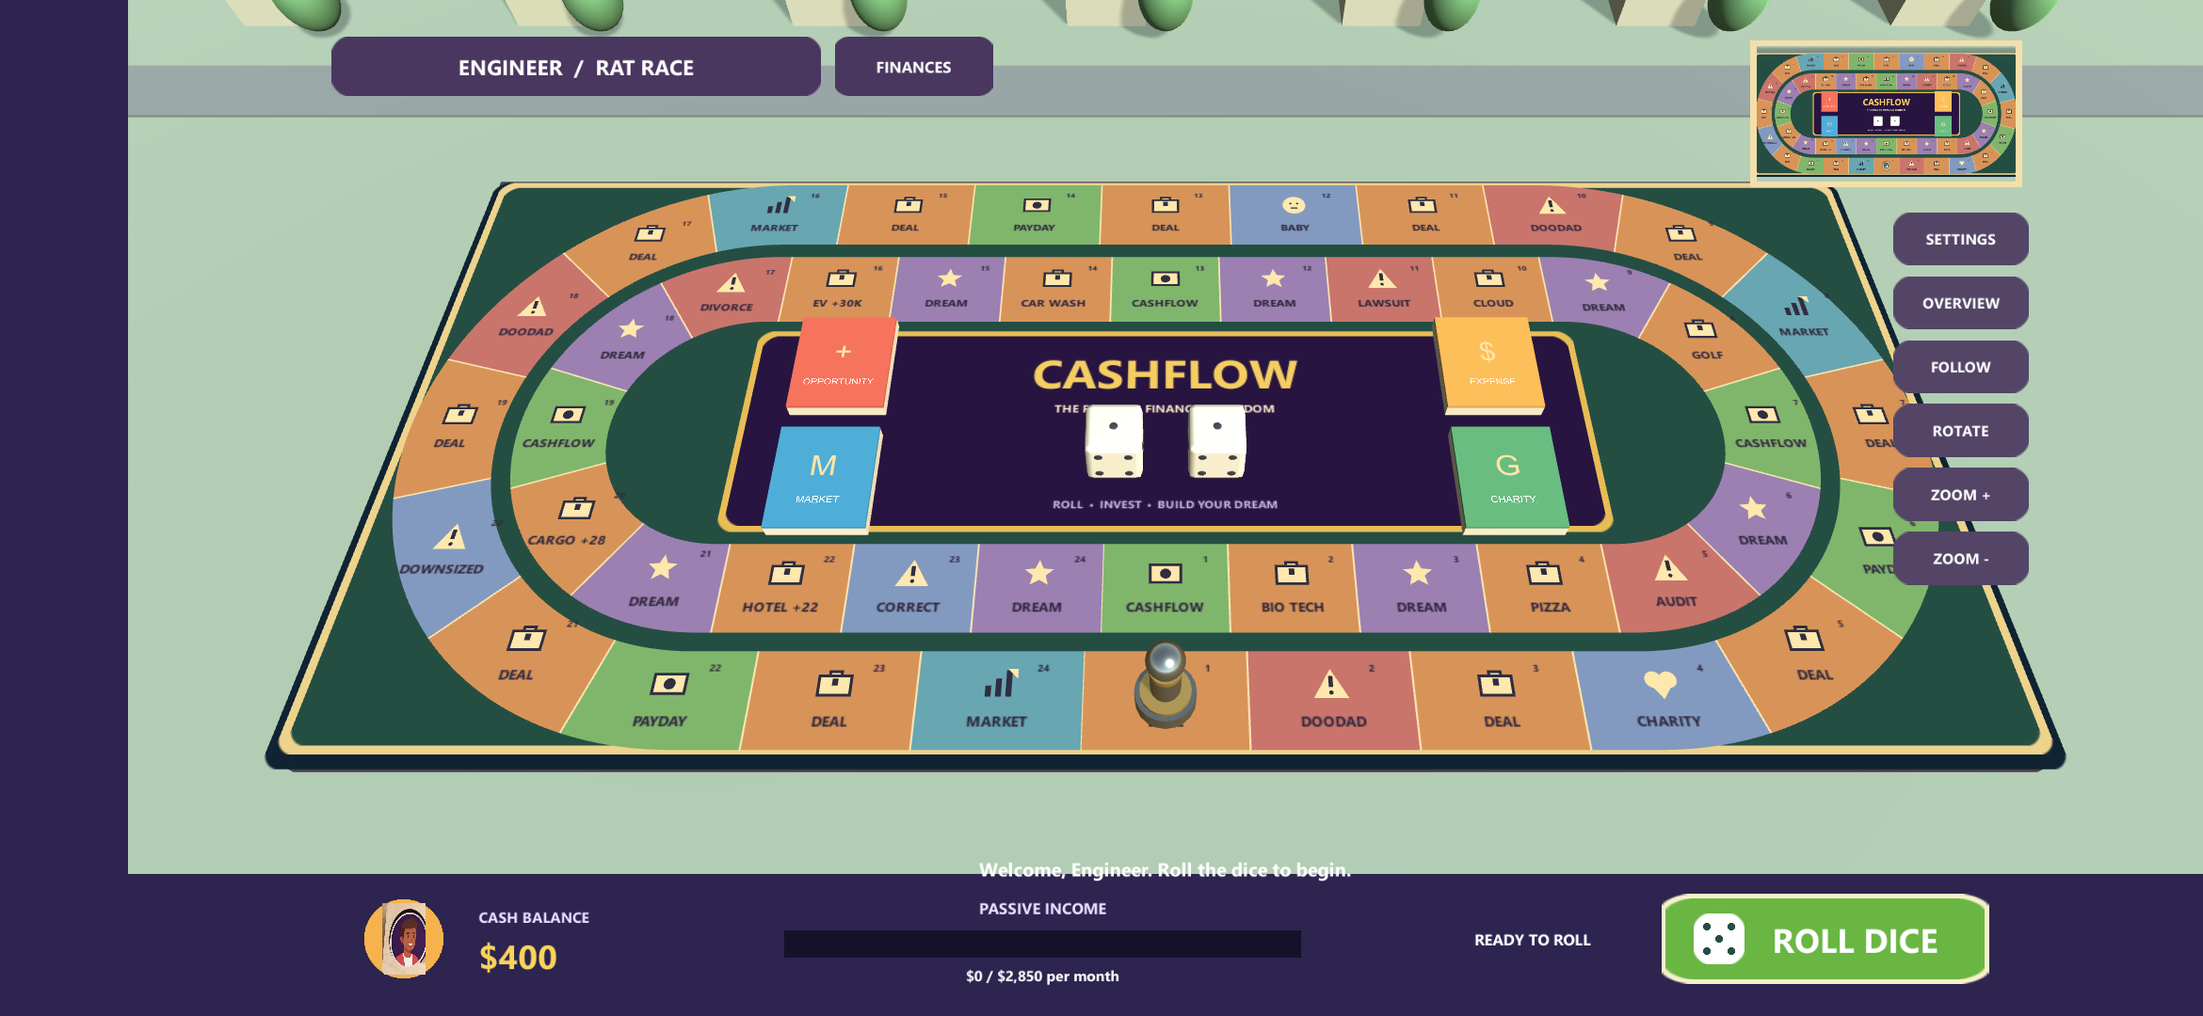
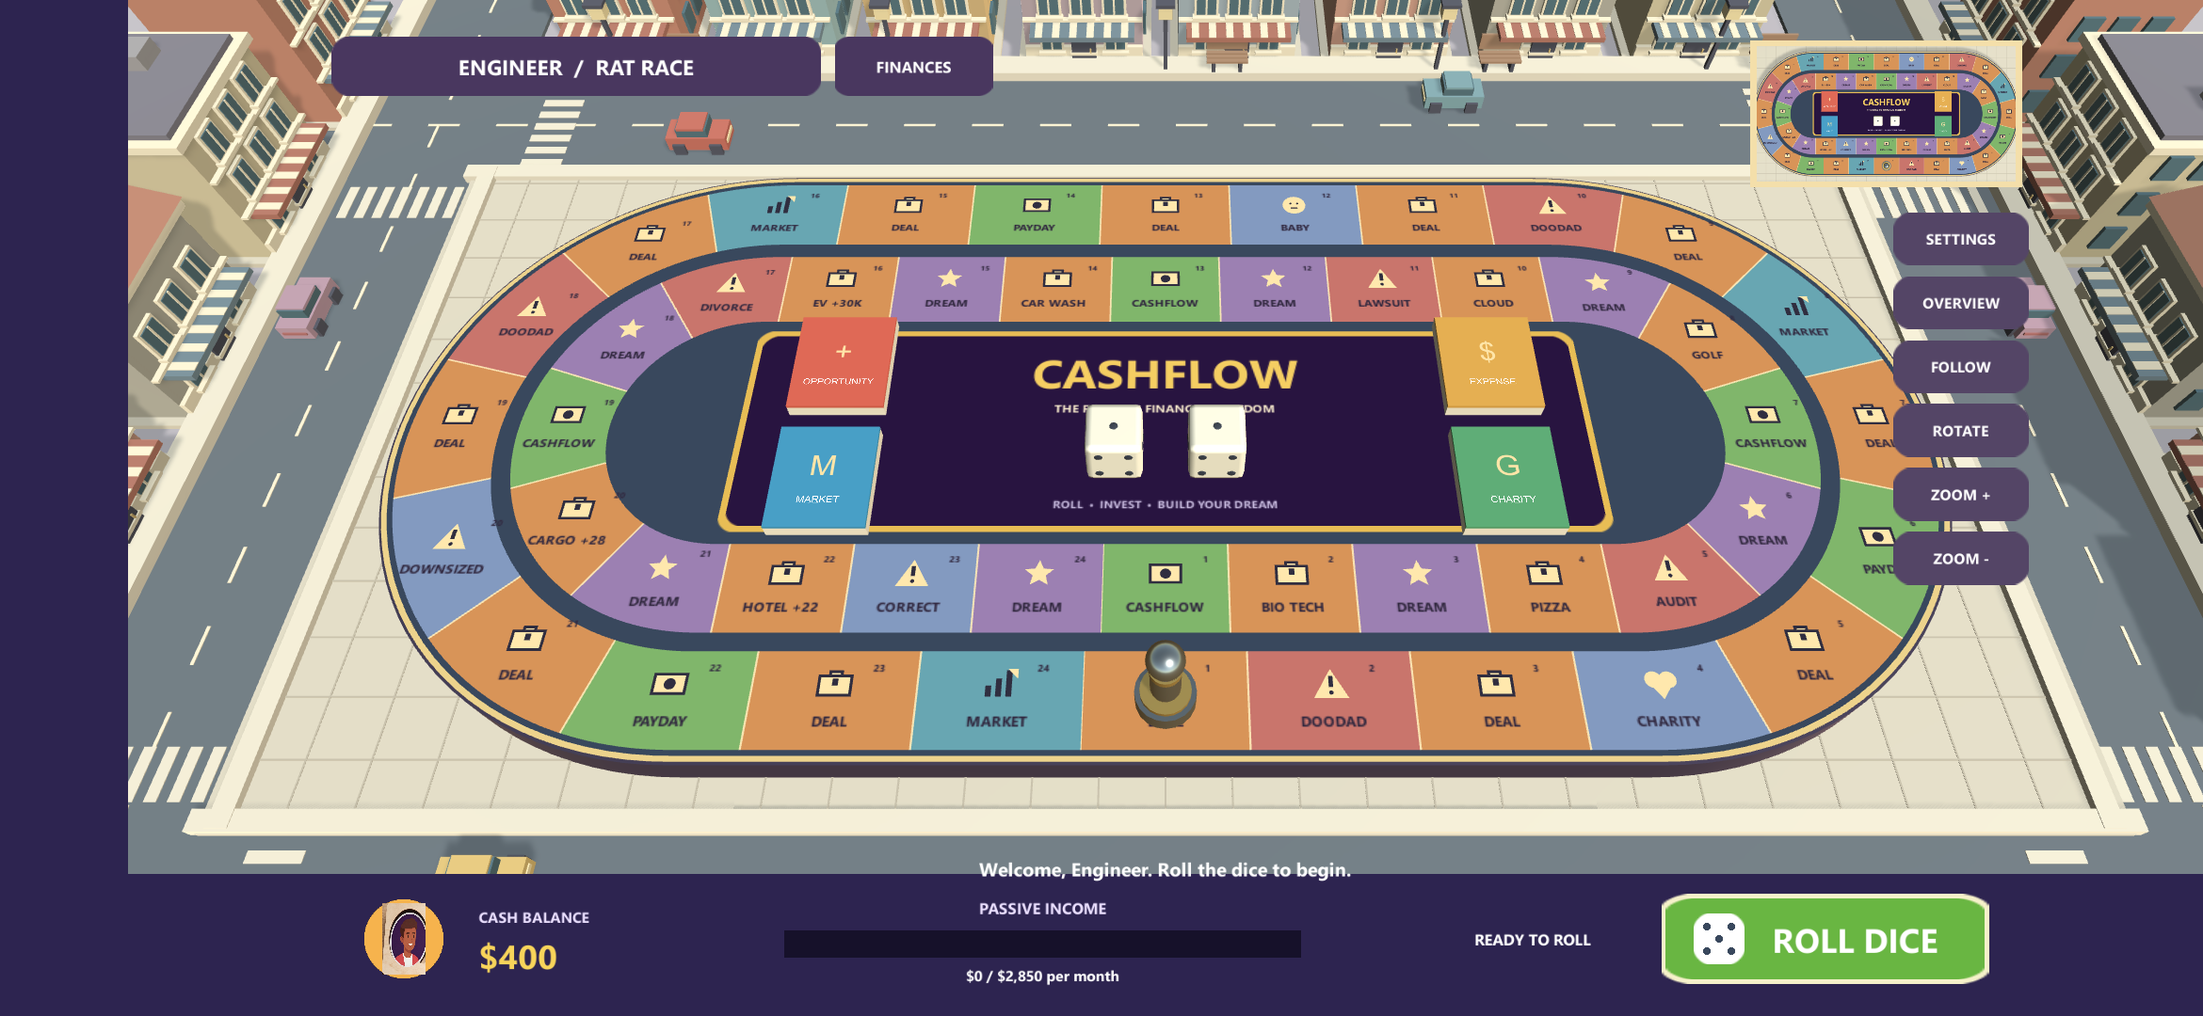
Refactor code structure for improved readability and maintainability

diff --git a/Assets/Scripts/BoardEnvironment.cs b/Assets/Scripts/BoardEnvironment.cs
@@ -1,0 +1,176 @@
+using System.Collections.Generic;
+using UnityEngine;
+using UnityEngine.Rendering;
+
+/// <summary>A compact, batched city diorama framing the board on every camera angle.</summary>
+public sealed class BoardEnvironment : MonoBehaviour
+{
+    sealed class Batch
+    {
+        public readonly List<Vector3> vertices=new List<Vector3>();
+        public readonly List<int> triangles=new List<int>();
+    }
+    readonly Dictionary<string,Batch> batches=new Dictionary<string,Batch>();
+    readonly List<Object> owned=new List<Object>();
+    Vector3 origin;
+    Quaternion rotation=Quaternion.identity;
+    const string Stone="#ded4c4", Curb="#f2e8d8", Road="#596574", Glass="#436679", Trim="#fff1d8", Metal="#3d4054";
+
+    public void Build()
+    {
+        Box(Vector3.down*.39f,new Vector3(70,.4f,70),"#b6b0c1");
+        Box(new Vector3(0,-.16f,0),new Vector3(12.8f,.09f,6.1f),Stone);
+        // Fine, shallow paving joints read as stone rather than an empty green plane.
+        for(float x=-6.3f;x<=6.3f;x+=.45f)Box(new Vector3(x,-.109f,0),new Vector3(.013f,.003f,6.0f),"#bfb4a4");
+        for(float z=-3;z<=3;z+=.45f)Box(new Vector3(0,-.109f,z),new Vector3(12.7f,.003f,.013f),"#bfb4a4");
+        for(int sign=-1;sign<=1;sign+=2)
+        {
+            float z=sign*3.65f;
+            Box(new Vector3(0,-.17f,z),new Vector3(34,.045f,1.25f),Road);
+            Box(new Vector3(0,-.115f,sign*2.97f),new Vector3(12.9f,.1f,.15f),Curb);
+            Box(new Vector3(0,-.105f,sign*4.4f),new Vector3(34,.11f,.25f),Curb);
+            for(float x=-16;x<17;x+=.65f)Box(new Vector3(x,-.143f,z),new Vector3(.3f,.006f,.025f),Trim);
+            float sx=sign*6.95f;
+            Box(new Vector3(sx,-.17f,0),new Vector3(1.25f,.045f,34),Road);
+            Box(new Vector3(sign*6.24f,-.11f,0),new Vector3(.15f,.1f,6.05f),Curb);
+            Box(new Vector3(sign*7.7f,-.105f,0),new Vector3(.25f,.11f,34),Curb);
+            for(float zz=-16;zz<17;zz+=.65f)Box(new Vector3(sx,-.141f,zz),new Vector3(.025f,.006f,.3f),Trim);
+            for(int cross=-1;cross<=1;cross+=2)
+            for(int i=0;i<7;i++)
+            {
+                Box(new Vector3(cross*5.83f,-.139f,z-.5f+i*.16f),new Vector3(.38f,.006f,.085f),Curb);
+                Box(new Vector3(sx-.5f+i*.16f,-.138f,cross*2.64f),new Vector3(.085f,.006f,.38f),Curb);
+            }
+        }
+        string[] walls={"#c37c67","#91b3bb","#d3af77","#b59faf","#9eafc1","#ce9584","#aeaaa0","#d5c6a4"};
+        for(int i=0;i<8;i++)
+        {
+            float x=-5.3f+i*1.5f;
+            Building(new Vector3(x,-.12f,5.13f),0,1.15f,1.05f+(i%3)*.24f,1.12f,walls[i],i);
+            Building(new Vector3(x,-.12f,-5.13f),180,1.15f,.8f+(i%3)*.15f,1.12f,walls[7-i],i+2);
+        }
+        for(int side=-1;side<=1;side+=2)
+        for(int i=0;i<6;i++)Building(new Vector3(side*8.4f,-.12f,-4.2f+i*1.7f),side*90,1.28f,1.05f+(i%3)*.24f,1.15f,walls[(i+3)%8],i);
+        // Rear blocks give the streets depth, instead of isolated primitive houses.
+        for(int i=0;i<11;i++)
+        {
+            Building(new Vector3(-9+i*1.8f,-.15f,7.5f),0,1.5f,1.7f+(i%4)*.35f,1.4f,walls[(i+1)%8],i+1);
+            Building(new Vector3(-9+i*1.8f,-.15f,-7.5f),180,1.5f,1.4f+(i%4)*.27f,1.4f,walls[(i+4)%8],i+2);
+        }
+        origin=Vector3.zero;rotation=Quaternion.identity;
+        for(int side=-1;side<=1;side+=2)
+        {
+            for(int i=0;i<5;i++)
+            {
+                float x=-5.3f+i*2.65f;
+                Lamp(new Vector3(x,-.1f,side*4.35f));
+                Bench(new Vector3(x+.6f,-.1f,side*4.36f));
+            }
+            Car(new Vector3(-4.35f,-.13f,side*3.37f),90,side>0?"#c65f53":"#e4bf70");
+            Car(new Vector3(2.75f,-.13f,side*3.93f),-90,side>0?"#749faf":"#ebe5cf");
+            Car(new Vector3(side*7.23f,-.13f,1.3f),0,"#b890aa");
+        }
+        origin=Vector3.zero;rotation=Quaternion.identity;
+        Bake();
+    }
+    void Building(Vector3 p,float angle,float width,float height,float depth,string wall,int variation)
+    {
+        origin=p;rotation=Quaternion.Euler(0,angle,0);
+        Box(new Vector3(0,-.015f,0),new Vector3(width+.16f,.05f,depth+.15f),Stone);
+        Box(new Vector3(0,height/2,0),new Vector3(width,height,depth),wall);
+        Box(new Vector3(0,.09f,-depth/2-.018f),new Vector3(width,.17f,.045f),Trim);
+        Box(new Vector3(0,height+.025f,0),new Vector3(width+.11f,.075f,depth+.1f),Trim);
+        int floors=Mathf.Max(1,Mathf.FloorToInt(height/.42f));
+        for(int floor=0;floor<floors;floor++)
+        {
+            float y=.28f+floor*.41f;
+            for(int col=-1;col<=1;col++)
+            {
+                float x=col*width*.27f;
+                Box(new Vector3(x,y,-depth/2-.027f),new Vector3(.23f,.29f,.032f),Trim);
+                Box(new Vector3(x,y,-depth/2-.047f),new Vector3(.185f,.245f,.012f),Glass);
+                Box(new Vector3(x,y,-depth/2-.055f),new Vector3(.018f,.245f,.01f),Trim);
+                Box(new Vector3(x,y-.155f,-depth/2-.05f),new Vector3(.26f,.03f,.075f),Trim);
+                Box(new Vector3(width/2+.018f,y,col*depth*.26f),new Vector3(.03f,.25f,.19f),Glass);
+            }
+            if(floor>0)Box(new Vector3(0,y-.2f,-depth/2-.025f),new Vector3(width,.024f,.06f),Trim);
+        }
+        Box(new Vector3(0,.16f,-depth/2-.065f),new Vector3(.24f,.32f,.02f),Metal);
+        Box(new Vector3(.065f,.16f,-depth/2-.079f),new Vector3(.015f,.055f,.015f),"#e0bd79");
+        // Striped shop awnings and readable, modeled storefront fascia.
+        string awning=variation%2==0?"#ad6557":"#657e92";
+        Box(new Vector3(0,.43f,-depth/2-.115f),new Vector3(width*.87f,.055f,.27f),awning);
+        for(int stripe=0;stripe<6;stripe++)Box(new Vector3(-width*.36f+stripe*width*.143f,.46f,-depth/2-.115f),new Vector3(width*.06f,.008f,.27f),Trim);
+        if(variation%3==0)
+        {
+            Roof(width,depth,height+.07f,"#aa6c59");
+            Box(new Vector3(width*.28f,height+.2f,.14f),new Vector3(.13f,.35f,.14f),wall);
+        }
+        else
+        {
+            Box(new Vector3(0,height+.08f,0),new Vector3(width-.07f,.07f,depth-.07f),"#747184");
+            Box(new Vector3(width*.21f,height+.18f,.08f),new Vector3(.25f,.15f,.28f),"#9d9aa4");
+        }
+        origin=Vector3.zero;rotation=Quaternion.identity;
+    }
+    void Roof(float width,float depth,float y,string color)
+    {
+        float w=width/2+.07f,d=depth/2+.07f;
+        Quad(new Vector3(-w,y,-d),new Vector3(-w,y+.25f,0),new Vector3(w,y+.25f,0),new Vector3(w,y,-d),color);
+        Quad(new Vector3(-w,y+.25f,0),new Vector3(-w,y,d),new Vector3(w,y,d),new Vector3(w,y+.25f,0),color);
+        Quad(new Vector3(-w,y,d),new Vector3(-w,y,-d),new Vector3(-w,y+.25f,0),new Vector3(-w,y+.25f,0),color);
+        Quad(new Vector3(w,y,-d),new Vector3(w,y,d),new Vector3(w,y+.25f,0),new Vector3(w,y+.25f,0),color);
+    }
+    void Lamp(Vector3 p)
+    {
+        Box(p+new Vector3(0,.025f,0),new Vector3(.13f,.05f,.13f),Metal);
+        Box(p+new Vector3(0,.35f,0),new Vector3(.038f,.7f,.038f),Metal);
+        Box(p+new Vector3(0,.74f,0),new Vector3(.13f,.14f,.13f),"#fbe5af");
+        Box(p+new Vector3(0,.83f,0),new Vector3(.18f,.035f,.18f),Metal);
+    }
+    void Bench(Vector3 p)
+    {
+        for(int x=-1;x<=1;x+=2)Box(p+new Vector3(x*.13f,.085f,0),new Vector3(.035f,.17f,.14f),Metal);
+        for(int i=0;i<3;i++)Box(p+new Vector3(0,.18f,-.065f+i*.06f),new Vector3(.4f,.025f,.045f),"#a67c61");
+        Box(p+new Vector3(0,.29f,.09f),new Vector3(.4f,.17f,.025f),"#a67c61");
+    }
+    void Car(Vector3 p,float angle,string paint)
+    {
+        origin=p;rotation=Quaternion.Euler(0,angle,0);
+        Box(new Vector3(0,.13f,0),new Vector3(.26f,.14f,.55f),paint);
+        Box(new Vector3(0,.23f,-.025f),new Vector3(.22f,.11f,.28f),Glass);
+        Box(new Vector3(0,.29f,-.025f),new Vector3(.23f,.025f,.25f),paint);
+        for(int side=-1;side<=1;side+=2)for(int end=-1;end<=1;end+=2)
+            Box(new Vector3(side*.14f,.08f,end*.17f),new Vector3(.035f,.11f,.11f),Metal);
+        Box(new Vector3(0,.14f,.277f),new Vector3(.2f,.035f,.015f),"#ffe9b5");
+        Box(new Vector3(0,.13f,-.277f),new Vector3(.2f,.025f,.015f),"#ad5f61");
+        origin=Vector3.zero;rotation=Quaternion.identity;
+    }
+    void Box(Vector3 center,Vector3 size,string color)
+    {
+        Vector3 a=center-size/2,b=center+size/2;
+        Quad(new Vector3(a.x,b.y,a.z),new Vector3(a.x,b.y,b.z),new Vector3(b.x,b.y,b.z),new Vector3(b.x,b.y,a.z),color);
+        Quad(new Vector3(a.x,a.y,b.z),new Vector3(a.x,a.y,a.z),new Vector3(b.x,a.y,a.z),new Vector3(b.x,a.y,b.z),color);
+        Quad(new Vector3(a.x,a.y,a.z),new Vector3(a.x,b.y,a.z),new Vector3(b.x,b.y,a.z),new Vector3(b.x,a.y,a.z),color);
+        Quad(new Vector3(b.x,a.y,b.z),new Vector3(b.x,b.y,b.z),new Vector3(a.x,b.y,b.z),new Vector3(a.x,a.y,b.z),color);
+        Quad(new Vector3(a.x,a.y,b.z),new Vector3(a.x,b.y,b.z),new Vector3(a.x,b.y,a.z),new Vector3(a.x,a.y,a.z),color);
+        Quad(new Vector3(b.x,a.y,a.z),new Vector3(b.x,b.y,a.z),new Vector3(b.x,b.y,b.z),new Vector3(b.x,a.y,b.z),color);
+    }
+    void Quad(Vector3 a,Vector3 b,Vector3 c,Vector3 d,string color)
+    {
+        if(!batches.TryGetValue(color,out var batch)){batch=new Batch();batches[color]=batch;}
+        int n=batch.vertices.Count;batch.vertices.Add(origin+rotation*a);batch.vertices.Add(origin+rotation*b);batch.vertices.Add(origin+rotation*c);batch.vertices.Add(origin+rotation*d);
+        batch.triangles.AddRange(new[]{n,n+1,n+2,n,n+2,n+3});
+    }
+    void Bake()
+    {
+        foreach(var entry in batches)
+        {
+            var mesh=new Mesh{name="City geometry "+entry.Key,indexFormat=IndexFormat.UInt32};mesh.SetVertices(entry.Value.vertices);mesh.SetTriangles(entry.Value.triangles,0);mesh.RecalculateNormals();mesh.RecalculateBounds();owned.Add(mesh);
+            var material=new Material(Shader.Find("Standard"));ColorUtility.TryParseHtmlString(entry.Key,out var c);material.color=c;material.SetFloat("_Glossiness",entry.Key==Glass?.38f:.12f);owned.Add(material);
+            var go=new GameObject("City finish "+entry.Key,typeof(MeshFilter),typeof(MeshRenderer));go.transform.SetParent(transform,false);go.GetComponent<MeshFilter>().sharedMesh=mesh;go.GetComponent<MeshRenderer>().sharedMaterial=material;
+        }
+        batches.Clear();
+    }
+    void OnDestroy(){foreach(var item in owned)if(item!=null)Destroy(item);}
+}

diff --git a/Assets/Scripts/BoardWorld.cs b/Assets/Scripts/BoardWorld.cs
@@ -27,6 +27,7 @@ public sealed class BoardWorld : MonoBehaviour
     bool dragging, moved;
     AudioSource audioSource;
     AudioClip clack;
+    Mesh boardBase;
 
     public static Vector3 TrackPoint(int index, bool fast)
     {
@@ -48,8 +49,8 @@ public sealed class BoardWorld : MonoBehaviour
         QualitySettings.antiAliasing=4;
         if(View.GetComponent<AudioListener>()==null)View.gameObject.AddComponent<AudioListener>();
         var sunlight=new GameObject("Soft afternoon light").AddComponent<Light>(); sunlight.transform.SetParent(transform,false);
-        sunlight.type=LightType.Directional; sunlight.intensity=1.15f; sunlight.color=new Color(1,.95f,.85f);
-        sunlight.shadows=LightShadows.Soft; sunlight.shadowStrength=.4f; sunlight.transform.rotation=Quaternion.Euler(48,-35,0);
+        sunlight.type=LightType.Directional; sunlight.intensity=1.0f; sunlight.color=new Color(1,.95f,.85f);
+        sunlight.shadows=LightShadows.Soft; sunlight.shadowStrength=.3f; sunlight.transform.rotation=Quaternion.Euler(48,-35,0);
         RenderSettings.ambientLight=new Color(.62f,.67f,.73f);
         QualitySettings.shadows=ShadowQuality.All; QualitySettings.shadowDistance=40;
         var surface=new GameObject("Printed board surface",typeof(RectTransform),typeof(Canvas),typeof(GraphicRaycaster));
@@ -58,13 +59,15 @@ public sealed class BoardWorld : MonoBehaviour
         var rect=surface.GetComponent<RectTransform>(); rect.sizeDelta=new Vector2(1280,540);
         rect.position=new Vector3(0,.151f,0); rect.rotation=Quaternion.Euler(90,0,0); rect.localScale=Vector3.one*.01f;
         face.SetParent(rect,false); face.anchoredPosition=Vector2.zero; face.localScale=Vector3.one;
-        Box("Board edge",Vector3.zero,new Vector3(11.85f,.28f,5.25f),Mat("#302746",.2f,.4f));
-        Box("Table",new Vector3(0,-.35f,0),new Vector3(30,.4f,22),Mat("#8fab9a"));
+        var edge=Box("Board edge",Vector3.zero,new Vector3(11.91f,.28f,5.34f),Mat("#302746",.2f,.4f));
+        edge.transform.localScale=Vector3.one;edge.GetComponent<BoxCollider>().size=new Vector3(11.91f,.28f,5.34f);
+        boardBase=BoardPlateGraphic.Solid(267,.28f);edge.GetComponent<MeshFilter>().sharedMesh=boardBase;
+        Box("Stone foundation",new Vector3(0,-.4f,0),new Vector3(70,.4f,70),Mat("#b6b0c1"));
         BuildScenery(); BuildDecks(); BuildPawn();
         for(int i=0;i<2;i++) { var d=new GameObject("Die "+(i+1)).AddComponent<BoardDie>(); d.transform.SetParent(transform,false); d.Build(Mat("#fff9e9",0,.32f),Mat("#20283a",.1f,.2f)); d.transform.position=new Vector3((i==0?-.38f:.38f),.4f,-.3f); dice.Add(d); }
         Overview=new GameObject("Live overview camera").AddComponent<Camera>(); Overview.transform.SetParent(transform,false);
         Overview.transform.position=new Vector3(0,14,0); Overview.transform.rotation=Quaternion.Euler(90,0,0);
-        Overview.orthographic=true; Overview.orthographicSize=2.9f; Overview.clearFlags=CameraClearFlags.SolidColor; Overview.backgroundColor=Hex("#6e9d78");
+        Overview.orthographic=true; Overview.orthographicSize=2.9f; Overview.clearFlags=CameraClearFlags.SolidColor; Overview.backgroundColor=Hex("#ded4c4");
         OverviewTexture=new RenderTexture(640,320,16){name="Live board overview",antiAliasing=2}; Overview.targetTexture=OverviewTexture;
         audioSource=gameObject.AddComponent<AudioSource>(); audioSource.spatialBlend=0;
         clack=AudioClip.Create("Dice clack",2205,1,22050,false); var samples=new float[2205];
@@ -115,17 +118,8 @@ public sealed class BoardWorld : MonoBehaviour
     }
     void BuildScenery()
     {
-        scenery=new GameObject("City surroundings").transform;scenery.SetParent(transform,false);
-        var road=Mat("#72828a");var green=Mat("#579a61");var wall=Mat("#d9dfc8");var roof=Mat("#ca8566");
-        Shape("North avenue",PrimitiveType.Cube,scenery,new Vector3(0,-.12f,4.1f),new Vector3(22,.03f,.7f),road);
-        Shape("South avenue",PrimitiveType.Cube,scenery,new Vector3(0,-.12f,-4.1f),new Vector3(22,.03f,.7f),road);
-        for(int i=0;i<14;i++)
-        {
-            float x=-9+i*1.4f,z=i%2==0?5.5f:-5.5f;
-            Shape("Townhouse",PrimitiveType.Cube,scenery,new Vector3(x,.35f,z),new Vector3(.8f,1+(i%3)*.2f,.8f),wall);
-            Shape("Roof",PrimitiveType.Cube,scenery,new Vector3(x,.9f+(i%3)*.1f,z),new Vector3(.9f,.12f,.9f),roof);
-            Shape("Tree",PrimitiveType.Sphere,scenery,new Vector3(x+.6f,.4f,z-.6f),new Vector3(.55f,.8f,.55f),green);
-        }
+        scenery=new GameObject("City plaza").transform;scenery.SetParent(transform,false);
+        scenery.gameObject.AddComponent<BoardEnvironment>().Build();
     }
     public void ApplyPrint(Transform board){if(boardInk==null){boardInk=new Material(Shader.Find("Cashflow/Printed Board"));materials.Add(boardInk);}foreach(var g in board.GetComponentsInChildren<Graphic>())g.material=g is Text?null:boardInk;}
     public void ToggleScenery(){scenery.gameObject.SetActive(!scenery.gameObject.activeSelf);}
@@ -206,5 +200,6 @@ public sealed class BoardWorld : MonoBehaviour
         foreach(var m in materials)if(m!=null)Destroy(m);
         if(OverviewTexture!=null){OverviewTexture.Release();Destroy(OverviewTexture);}
         if(clack!=null)Destroy(clack);
+        if(boardBase!=null)Destroy(boardBase);
     }
 }

diff --git a/Assets/Scripts/CashflowGame.cs b/Assets/Scripts/CashflowGame.cs
@@ -240,7 +240,7 @@ public class CashflowGame : MonoBehaviour
         foreach(var dot in new[]{new Vector2(-9,-9),new Vector2(9,-9),Vector2.zero,new Vector2(-9,9),new Vector2(9,9)})
         {
             var pip=new GameObject("Pip",typeof(RectTransform),typeof(Image)); pip.transform.SetParent(diceArt.transform,false);
-            pip.GetComponent<Image>().sprite=CircleSprite(); pip.GetComponent<Image>().color=C("#254e43"); pip.GetComponent<Image>().raycastTarget=false;
+            pip.GetComponent<Image>().sprite=CircleSprite(); pip.GetComponent<Image>().color=C("#39485d"); pip.GetComponent<Image>().raycastTarget=false;
             Place(pip.GetComponent<RectTransform>(),dot.x,dot.y,6,6);
         }
         var rollLabel=roll.GetComponentInChildren<Text>(); Place(rollLabel.rectTransform,22,0,165,48);
@@ -278,9 +278,8 @@ public class CashflowGame : MonoBehaviour
         foreach(var decoration in boardDecorations) {decoration.SetActive(false);Destroy(decoration);} boardDecorations.Clear();
 
 
-        BoardLayer("Board Shadow",0,-5,1190,530,C("#102333"));
         BoardLayer("Board Frame",0,0,1180,520,C("#edd38c"));
-        BoardLayer("Park Border",0,0,1168,508,C("#254e43"));
+        BoardLayer("Slate Board Surround",0,0,1168,508,C("#39485d"));
         BoardLayer("Gold Mat Trim",0,0,662,186,C("#e8bd55"));
         BoardLayer("Cashflow Center",0,0,652,176,C("#281440"));
         CreateTrack(fastTiles,138,70,true);
@@ -290,7 +289,13 @@ public class CashflowGame : MonoBehaviour
     }
     GameObject BoardLayer(string name,float x,float y,float width,float height,Color color)
     {
-        if(name=="Board Frame"||name=="Board Shadow"||name=="Park Border"||name=="Gold Mat Trim"||name=="Cashflow Center")width+=2*(BoardTrackGenerator.Straight-328);
+        if(name=="Board Frame"||name=="Slate Board Surround")
+        {
+            var plate=new GameObject(name,typeof(RectTransform),typeof(CanvasRenderer),typeof(BoardPlateGraphic));plate.transform.SetParent(board,false);
+            var graphic=plate.GetComponent<BoardPlateGraphic>();graphic.radius=name=="Board Frame"?265:261;graphic.color=color;graphic.raycastTarget=false;
+            Place(graphic.rectTransform,x,y,1280,540);boardDecorations.Add(plate);return plate;
+        }
+        if(name=="Board Frame"||name=="Board Shadow"||name=="Slate Board Surround"||name=="Gold Mat Trim"||name=="Cashflow Center")width+=2*(BoardTrackGenerator.Straight-328);
         var layer=new GameObject(name,typeof(RectTransform),typeof(Image)); layer.transform.SetParent(board,false); layer.transform.SetAsLastSibling();
         var image=layer.GetComponent<Image>(); image.sprite=RoundedSprite(); image.type=Image.Type.Sliced; image.color=color; image.raycastTarget=false; Place(layer.GetComponent<RectTransform>(),x,y,width,height); boardDecorations.Add(layer); return layer;
     }

diff --git a/Assets/Scripts/BoardPlateGraphic.cs b/Assets/Scripts/BoardPlateGraphic.cs
@@ -1,0 +1,40 @@
+using UnityEngine;
+using UnityEngine.UI;
+
+/// <summary>The board perimeter follows the track, leaving no rectangular corner wedges.</summary>
+[RequireComponent(typeof(CanvasRenderer))]
+public sealed class BoardPlateGraphic : MaskableGraphic
+{
+    public float radius=263;
+    const int Steps=192;
+    protected override void OnPopulateMesh(VertexHelper h)
+    {
+        h.Clear();h.AddVert(Vector3.zero,color,Vector2.zero);
+        for(int i=0;i<=Steps;i++)
+        {
+            h.AddVert(BoardTrackGenerator.Point(i/(float)Steps,radius),color,Vector2.zero);
+            if(i>0)h.AddTriangle(0,i,i+1);
+        }
+    }
+    public static Mesh Solid(float radius,float thickness)
+    {
+        var vertices=new Vector3[Steps*4+2];var indices=new int[Steps*12];
+        vertices[0]=Vector3.up*thickness/2;vertices[1]=Vector3.down*thickness/2;
+        for(int i=0;i<Steps;i++)
+        {
+            Vector2 p=BoardTrackGenerator.Point(i/(float)Steps,radius)*.01f;
+            vertices[2+i*4]=new Vector3(p.x,thickness/2,p.y);
+            vertices[3+i*4]=new Vector3(p.x,-thickness/2,p.y);
+            vertices[4+i*4]=vertices[2+i*4];vertices[5+i*4]=vertices[3+i*4];
+        }
+        for(int i=0;i<Steps;i++)
+        {
+            int a=2+i*4,b=2+((i+1)%Steps)*4,k=i*12;
+            indices[k]=0;indices[k+1]=b;indices[k+2]=a;
+            indices[k+3]=1;indices[k+4]=a+1;indices[k+5]=b+1;
+            indices[k+6]=a+2;indices[k+7]=b+2;indices[k+8]=a+3;
+            indices[k+9]=a+3;indices[k+10]=b+2;indices[k+11]=b+3;
+        }
+        var mesh=new Mesh{name="Track-shaped board base"};mesh.vertices=vertices;mesh.triangles=indices;mesh.RecalculateNormals();mesh.RecalculateBounds();return mesh;
+    }
+}
